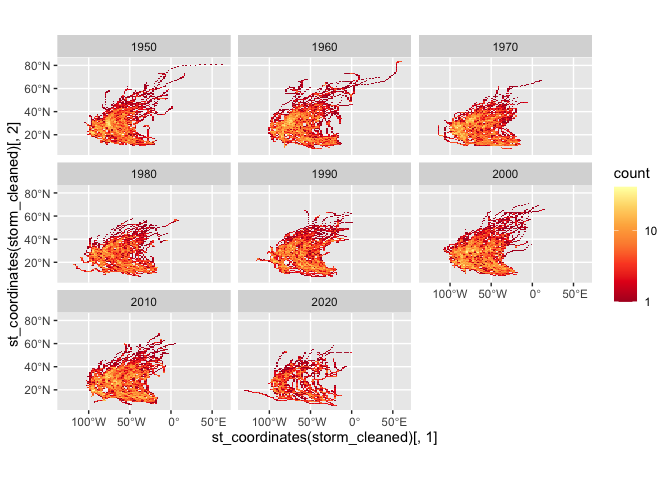
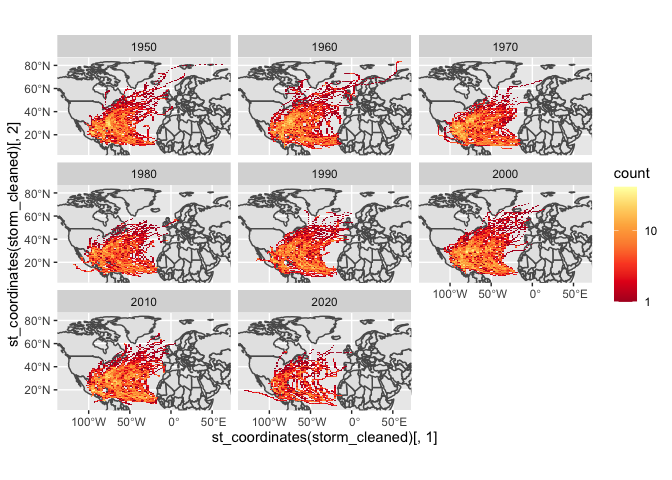
a little change

diff --git a/week_09/case_study_09.md b/week_09/case_study_09.md
@@ -1,7 +1,7 @@
 Case Study 09
 ================
 Hang Tian
-2022-11-01
+2022-11-03
 
 # 1. Import packages and get data
 
@@ -75,6 +75,7 @@ region=st_bbox(storm_cleaned)
 
 ``` r
 ggplot(world)+
+  geom_sf()+
   stat_bin2d(data=storm_cleaned,aes(y=st_coordinates(storm_cleaned)[,2], x=st_coordinates(storm_cleaned)[,1]),bins=100)+
   facet_wrap(~decade)+
   scale_fill_distiller(palette="YlOrRd", trans="log", direction=-1, breaks = c(1,10,100,1000))+
